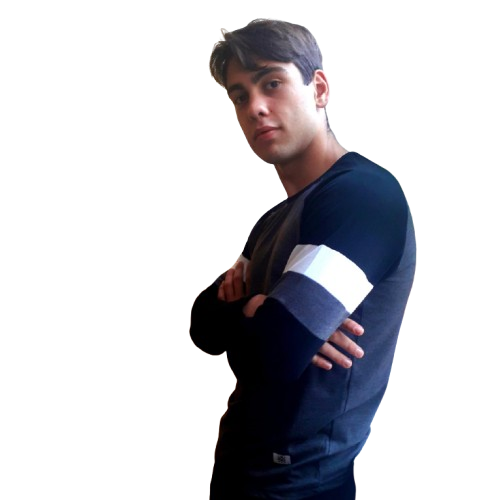
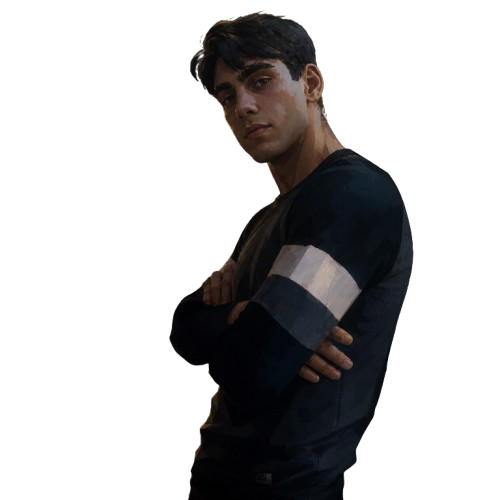
fix dependencies and update project

Changed region(s): [[0.3307, 0.0, 0.8417, 1.0]]

diff --git a/vite.config.js b/vite.config.js
@@ -2,7 +2,7 @@ import { defineConfig } from 'vite';
 import react from '@vitejs/plugin-react';
 
 export default defineConfig({
-  base: process.env.NODE_ENV === "production" ? "/My-Portfolio/" : "/",
+  base: process.env.VERCEL ? "/" : "/My-Portfolio/",
   plugins: [
     react()
   ],
